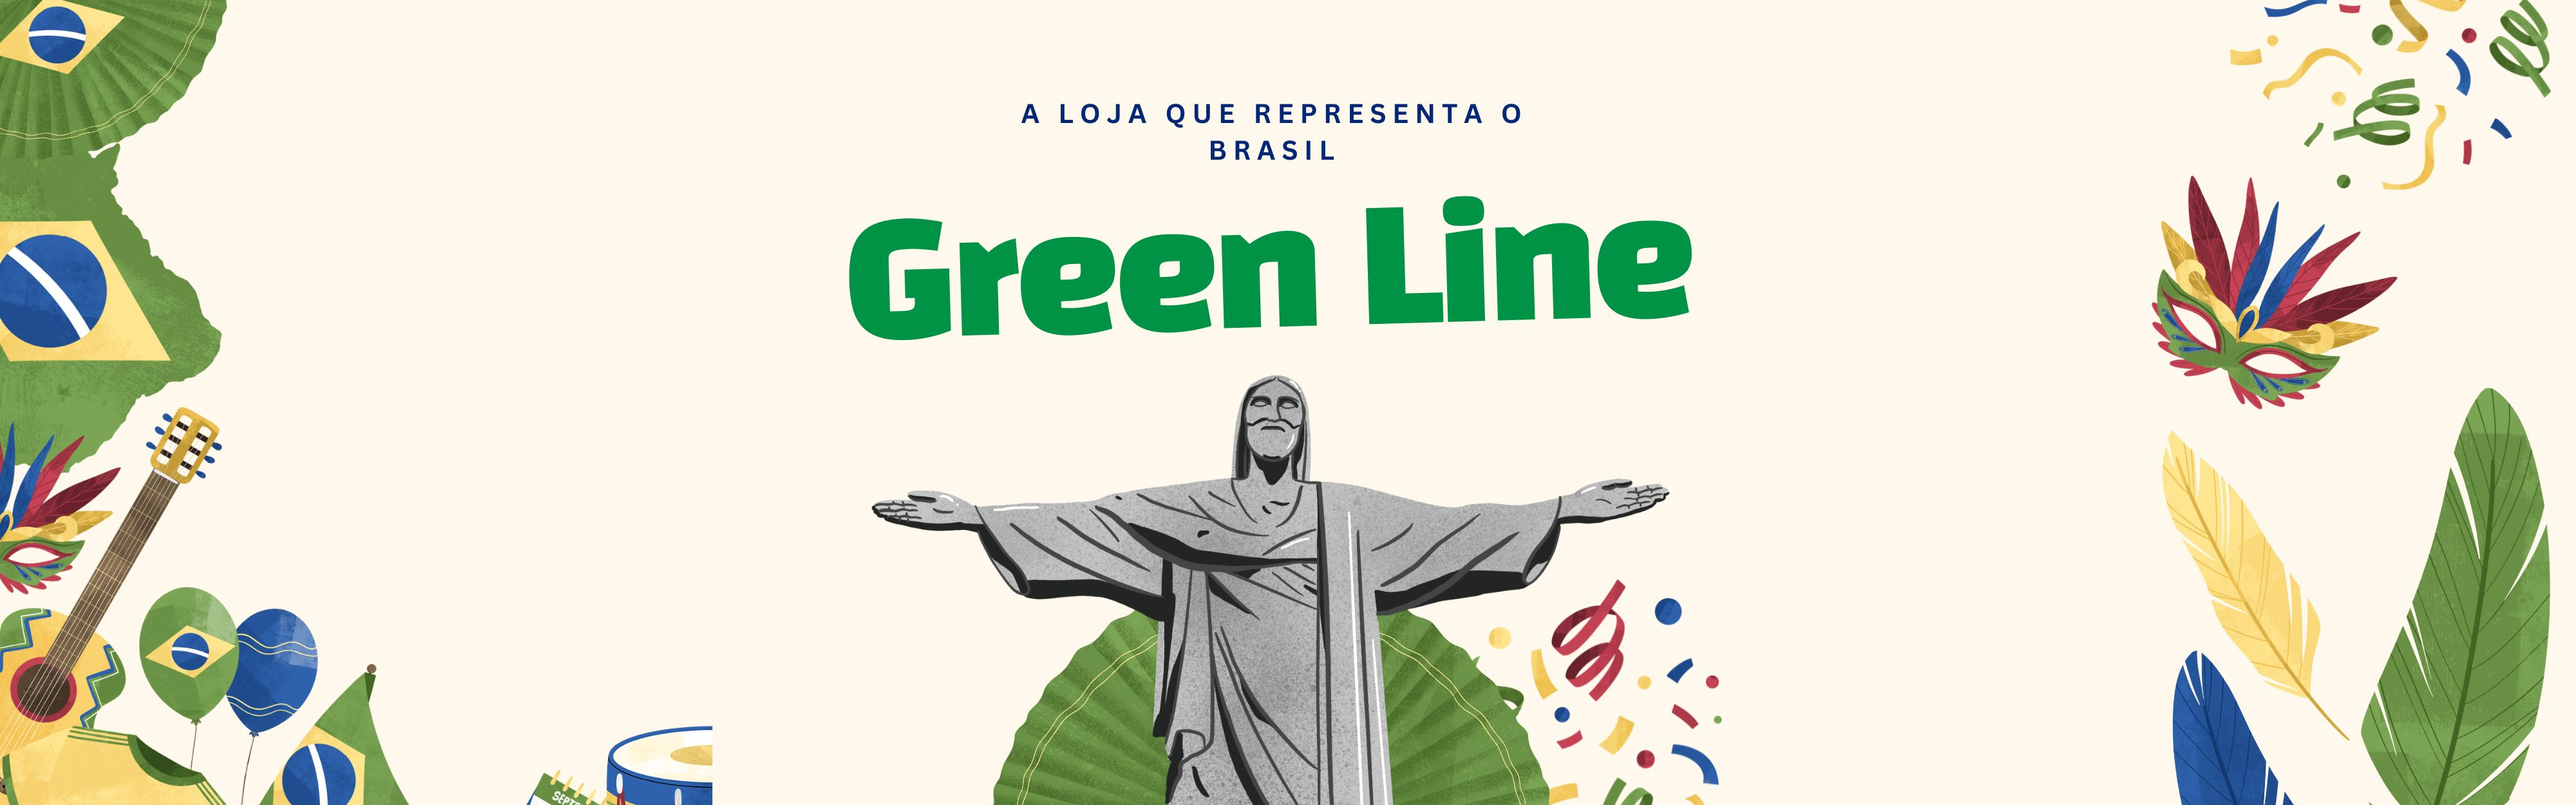
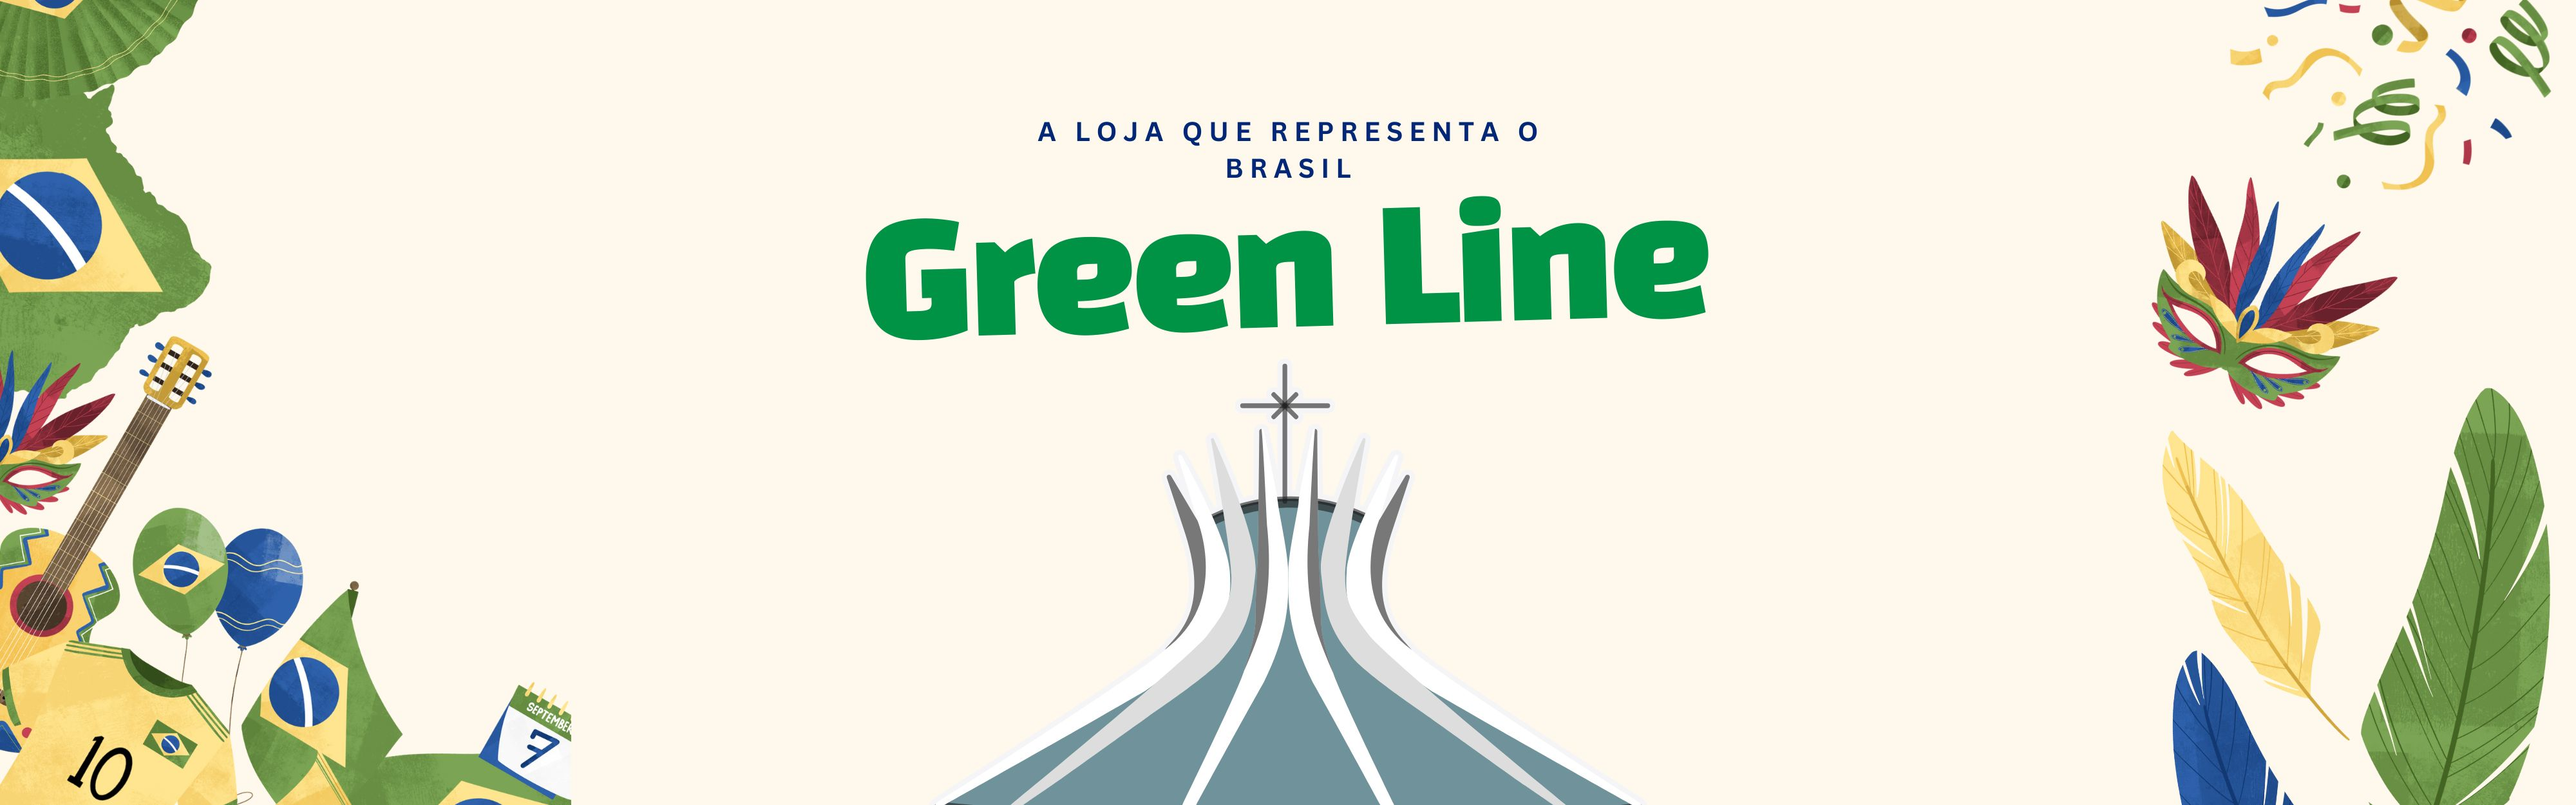
att imagem carrossel1 e aumento de 100px do carrossel

diff --git a/js/frontendIndex.js b/js/frontendIndex.js
@@ -97,7 +97,7 @@ function renderizarCarrossel() {
     item.innerHTML = `
       <img src="/img/index_carousel/${img.nomeImagem || 'default.jpg'}" 
            class="d-block w-100" 
-           style="height: 400px; object-fit: cover;" 
+           style="height: 600px; object-fit: cover;" 
            alt="${img.alt || 'Imagem do carrossel'}"
            loading="lazy"
            onerror="this.src='${config.fallbackImage}'">
